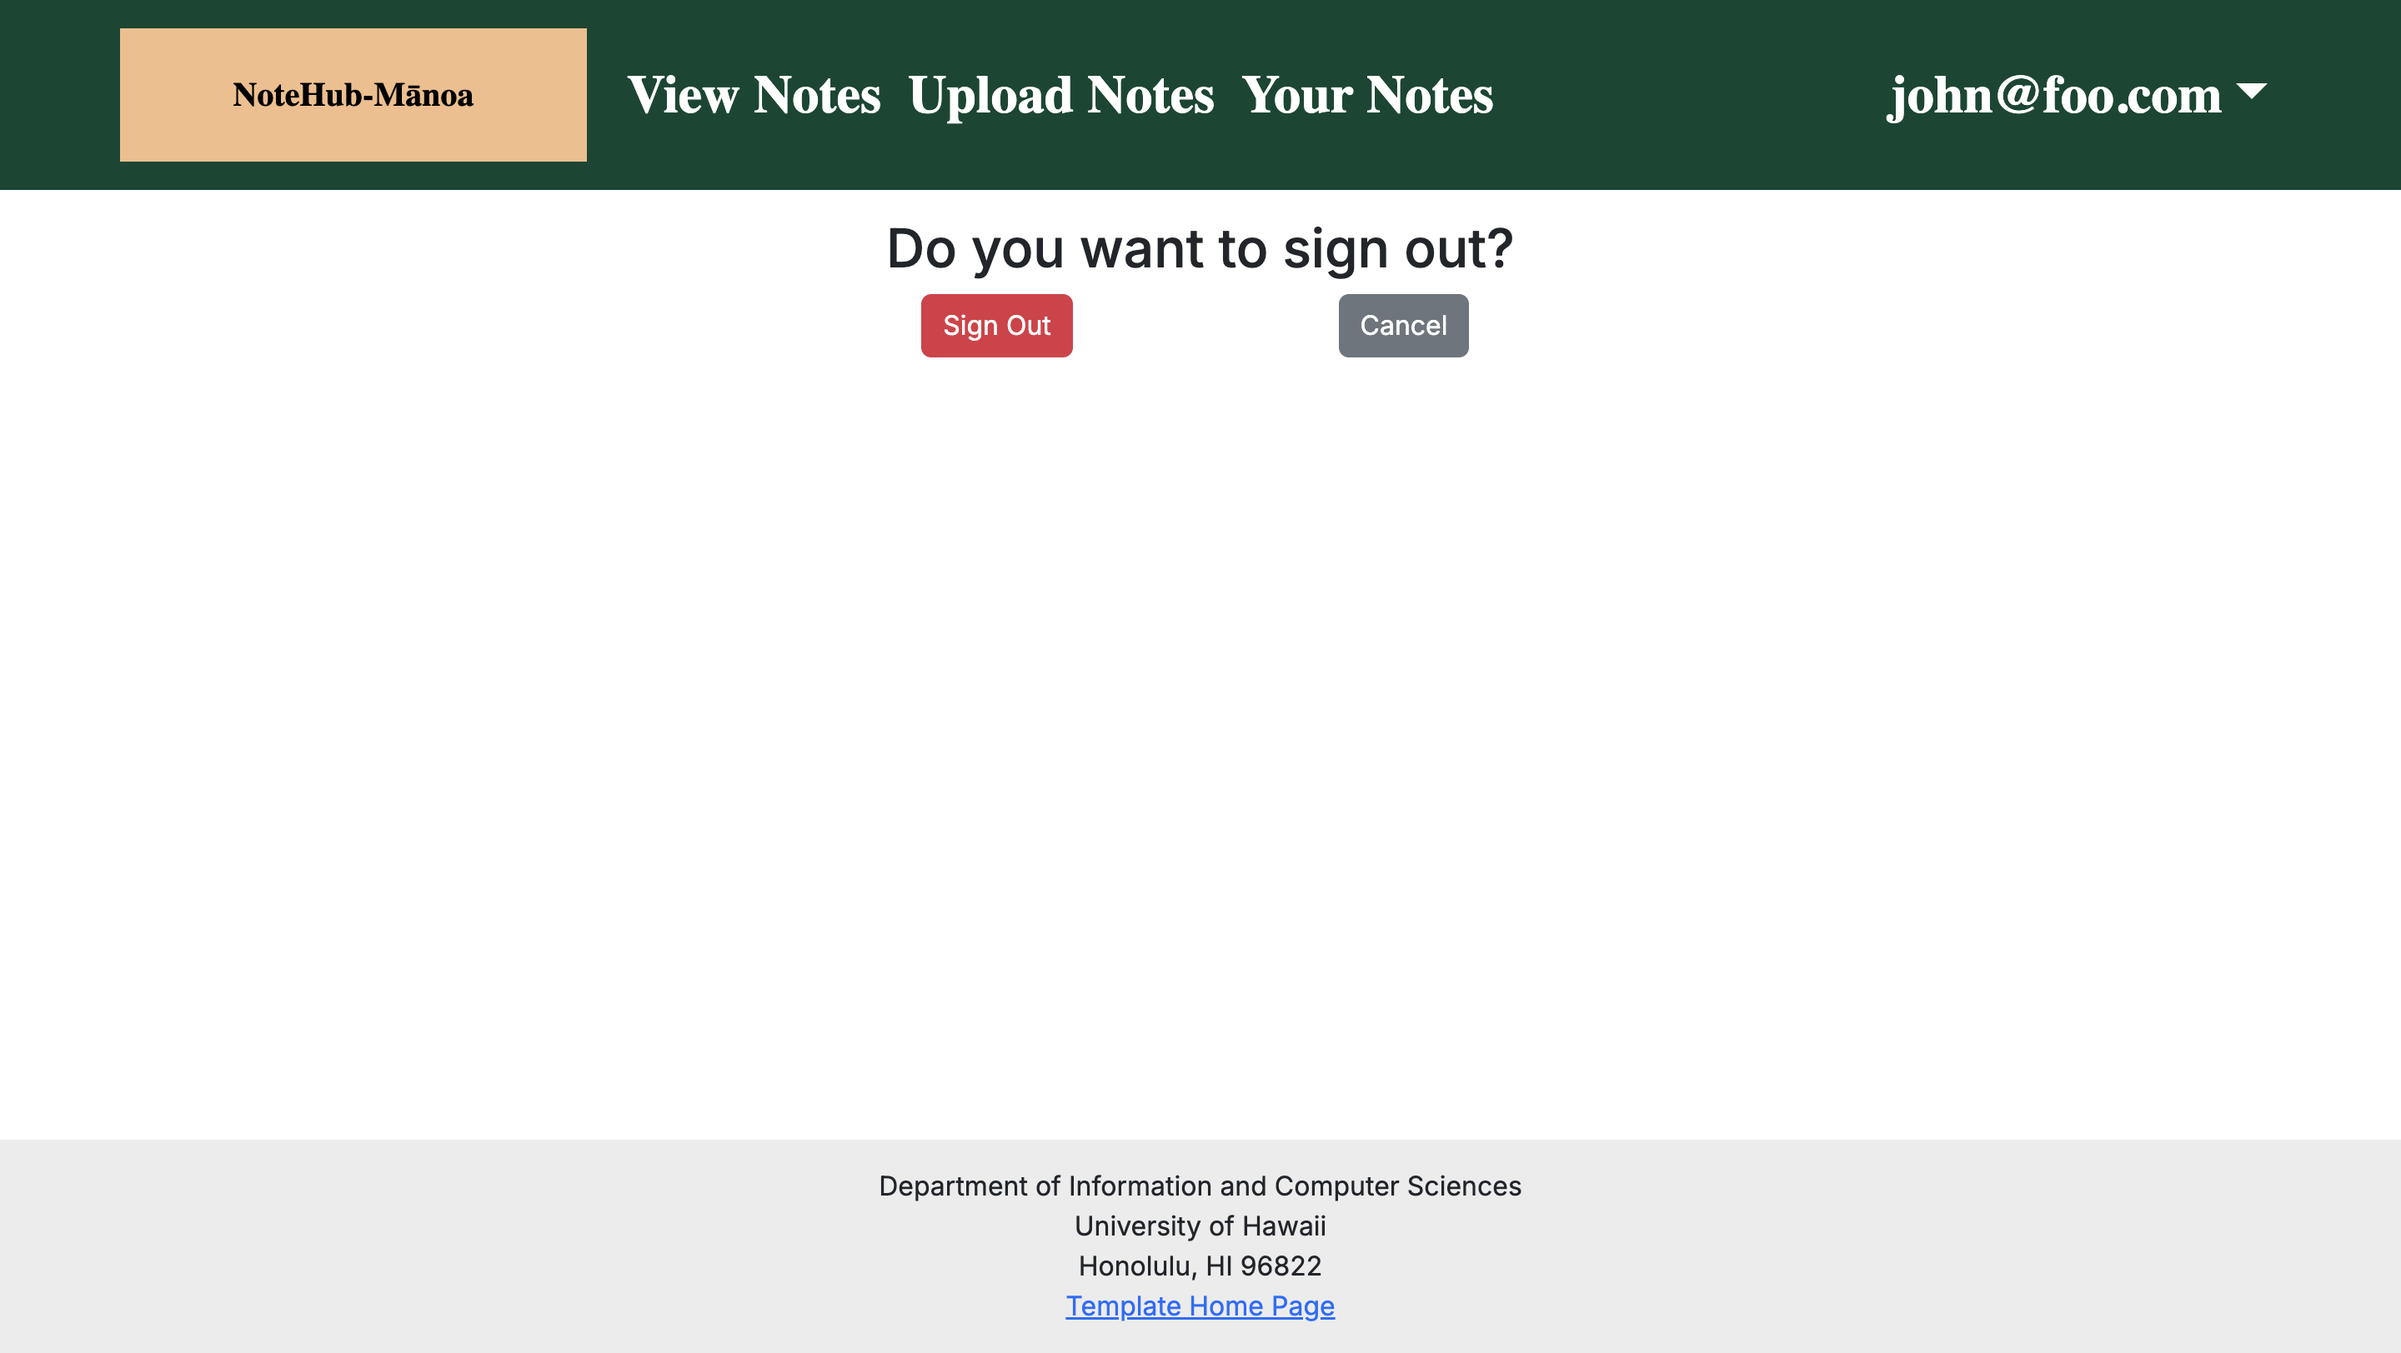
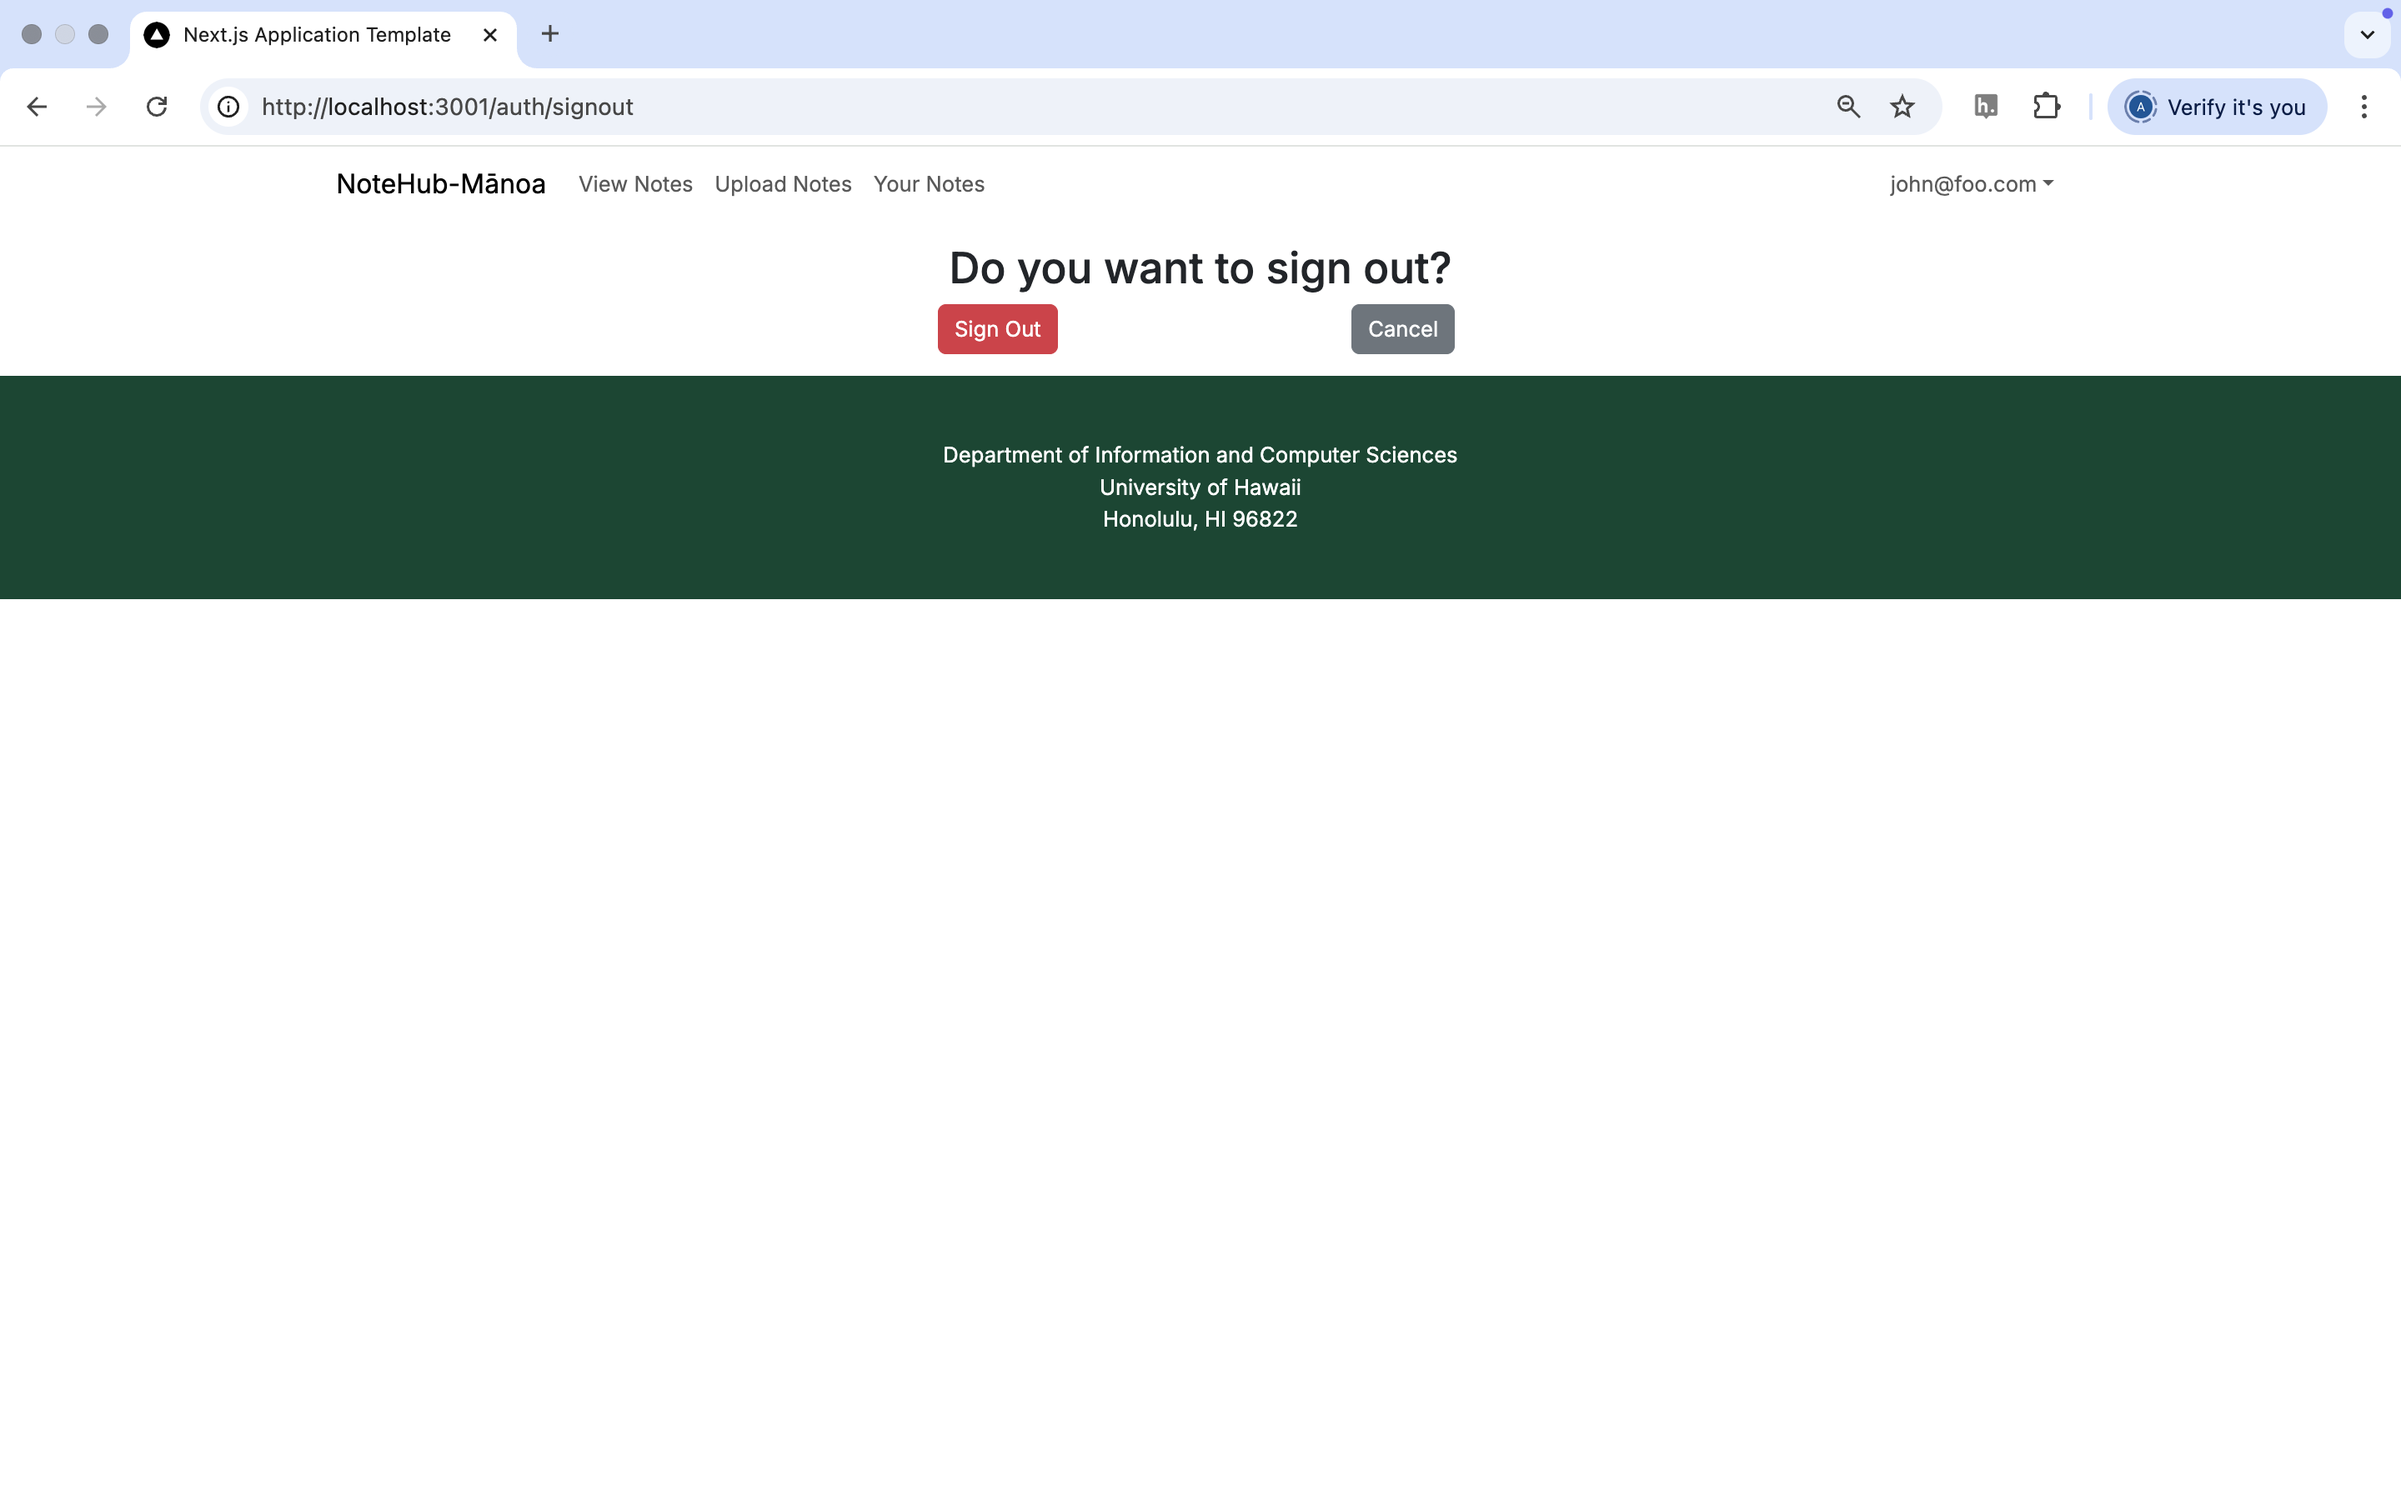
Upload

Changed region(s): [[0.0, 0.0, 1.0, 0.4002], [0.375, 0.8621, 0.625, 0.9852]]

diff --git a/index.md b/index.md
@@ -136,17 +136,20 @@ CI/CD pipelines will be implemented to automate testing and ensure smooth deploy
 
 ## Walkthrough Videos
 
-Uploading Notes Page
+Landing Page
+![](images/landing-page.png)
 
-![](images/upload-note.png)
+Upload Notes Page
+
+![](images/upload-notes-page.png)
 
 Successfully Uploaded Note Page
 
-![](images/upload-note.png)
+![](images/upload-notes-success-page.png)
 
 Sign Out Page
 
-![](images/upload-note.png)
+![](images/signout-page.png)
 
 ---
 
